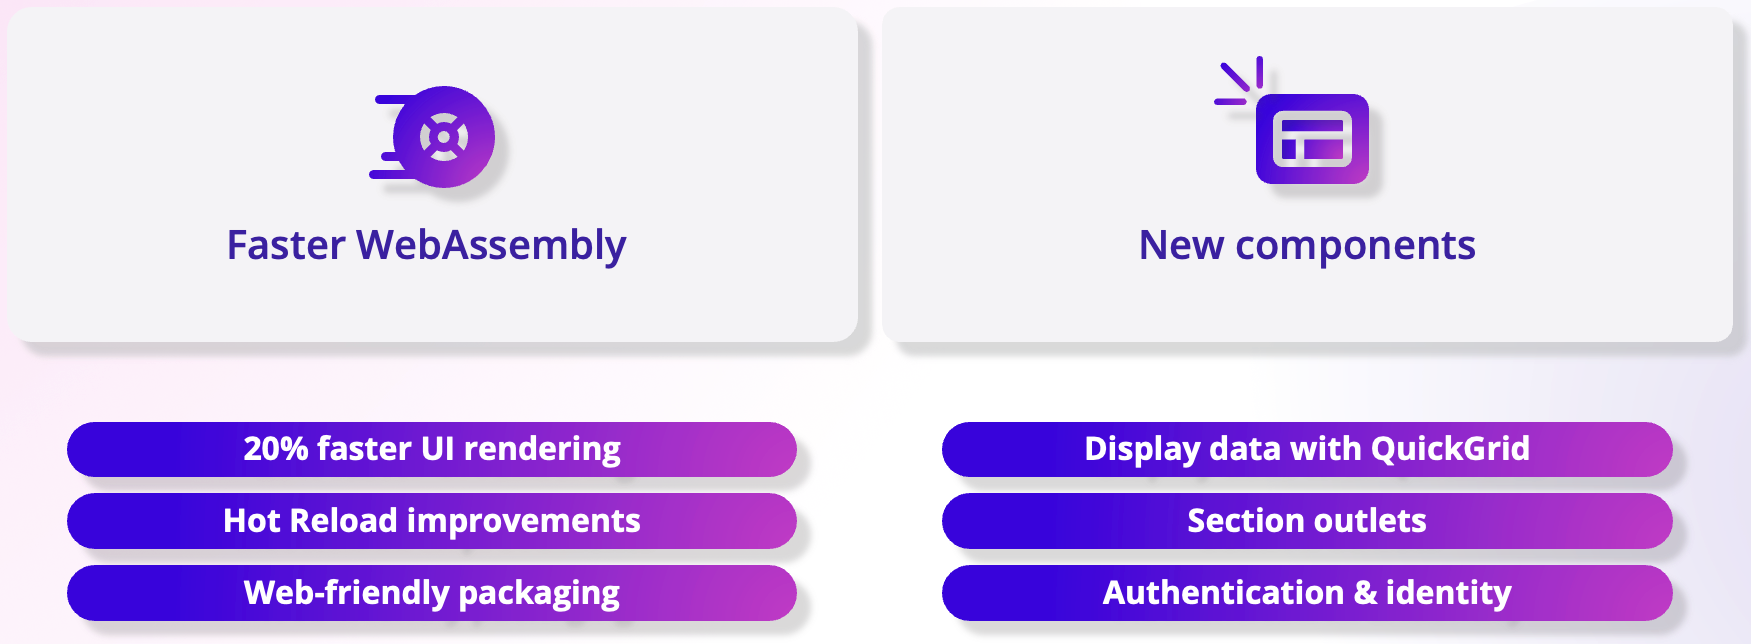
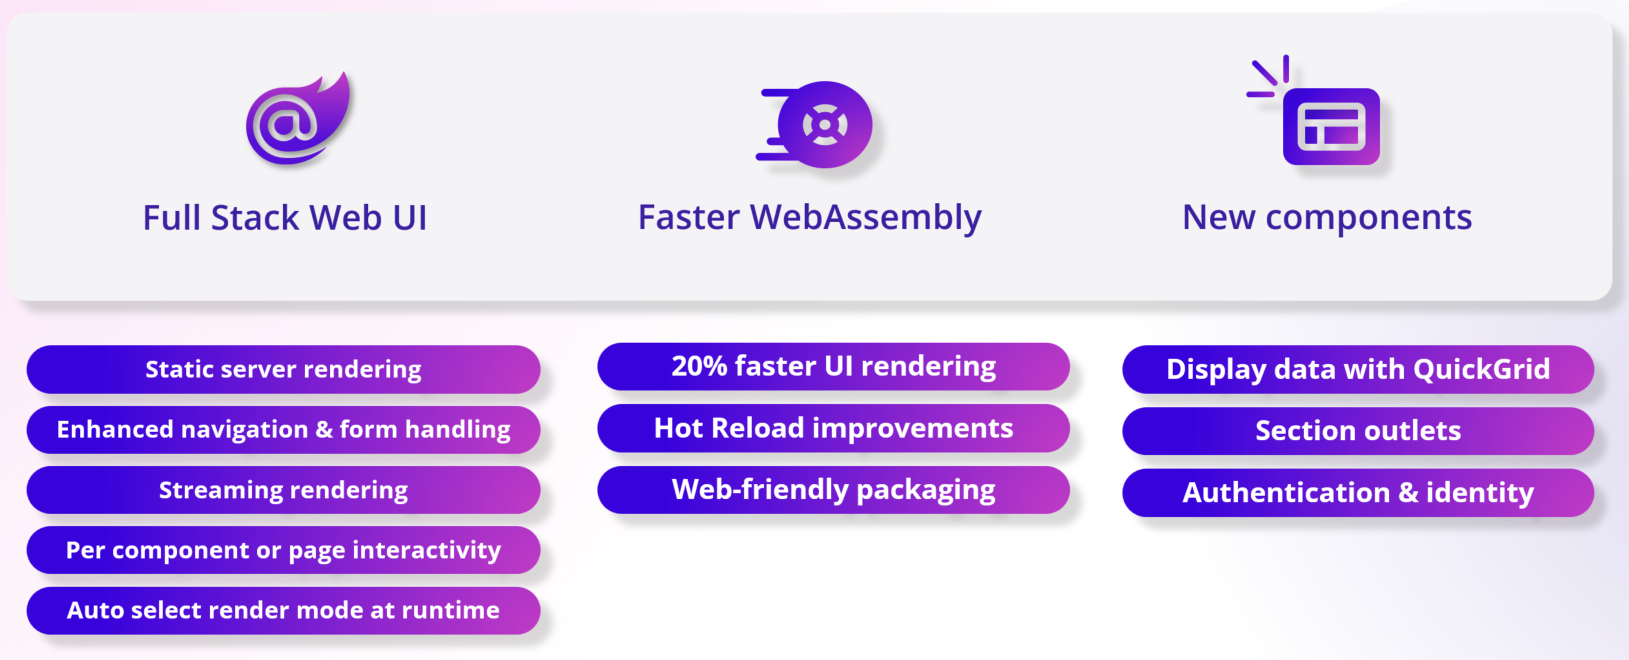
Update announcing-dotnet-8.md from GS feedback (#1384)
* Update announcing-dotnet-8.md

Incorporated Gaurav's feedback and edits.

* Update 2023/11-Nov/announcing-dotnet-8/announcing-dotnet-8.md

* new images from keynote deck

* New image w/o mouse pointer

diff --git a/2023/11-Nov/announcing-dotnet-8/announcing-dotnet-8.md b/2023/11-Nov/announcing-dotnet-8/announcing-dotnet-8.md
@@ -12,60 +12,37 @@ post_date: 2023-11-14 10:05:00
 
 [![.NET 8 is now available](Banner.png)](https://dotnet.microsoft.com/download/dotnet/8.0)
 
-Today we are happy to announce the availability of .NET 8, the latest version of one of the world’s leading programming languages and development platforms. .NET 8 delivers thousands of performance, stability, and security improvements, including platform and tooling enhancements that will help developers increase productivity and drive innovation and growth across their organizations. .NET is showcasing the latest capabilities in .NET 8 at [dotnetConf, which takes place online today, November 14, through November 16](https://www.dotnetconf.net/).
+Today we are happy to announce the [availability of .NET 8](https://aka.ms/get-dotnet-8), the latest [LTS](https://dotnet.microsoft.com/platform/support/policy) version of one of the world’s leading development platforms. .NET 8 delivers thousands of performance, stability, and security improvements, as well as platform and tooling enhancements that help increase developer productivity and speed of innovation. The .NET team, our partners, and the .NET community will be talking about what’s new in .NET 8 as well as what people are building with .NET today to meet their needs of tomorrow at [dotnetConf, a three day virtual event (November 14-16)](https://www.dotnetconf.net/). Come, join us!
 
-.NET 8 reshapes the way we build intelligent cloud-native applications and high-traffic services that scale on demand. Whether you're deploying to Linux or Windows using containers or a cloud app model of your choice, .NET 8 makes building apps easier. It includes new cloud-native components and libraries that are used today by the many services at Microsoft you know and love to help you with fundamental challenges including observability, resiliency, scalability, manageability, and much more.
+.NET 8 reshapes the way we build intelligent cloud-native applications and high-traffic services that scale on demand. Whether you’re deploying to Linux or Windows using containers or a cloud app model of your choice, .NET 8 makes building apps easier. It includes new built-in cloud-native components and libraries that are used today by the many services at Microsoft you know and love, to help you with fundamental challenges including observability, resiliency, scalability, manageability, and much more.
 
-Integrate large language models like OpenAI's GPT directly into your .NET app. Use a single powerful component model to handle all your web UI needs with Blazor. Deploy your mobile applications to the latest version of iOS and Android with .NET MAUI. Discover new language enhancements that make your code more concise and expressive with C# 12. And you can even build your .NET applications with Visual Studio Code using C# Dev Kit.
+[![.NET 8 - Cloud Native Features](Cloud-Native-dotnet-8.png)](https://aka.ms/aspireannouncement)
 
-Microsoft will offer [long term support for .NET 8 for at least three years](https://dotnet.microsoft.com/platform/support/policy).
+Integrate large language models like OpenAI’s GPT directly into your .NET app. Use a single powerful component model to handle all your web UI needs with Blazor. Deploy your mobile applications to the latest version of iOS and Android with .NET MAUI. Discover new language enhancements that make your code more concise and expressive with C# 12.  
 
-Let’s look at what’s new.
-
-## What's new in .NET 8
-
-The .NET 8 release includes improvements across all workloads with major enhancements to:
-
-- Cloud Native
-  - [.NET Aspire](#net-aspire-an-opinionated-stack-to-build-observable-production-ready-cloud-native-applications)
-  - [Containers](#net-8-container-enhancements-more-secure-compact-and-developer-friendly)
-
-- Optimized Execution
-  - [Performance](#unparalleled-performance-experience-the-fastest-net-to-date)
-  - [Native AOT](#native-aot-journey-towards-higher-density-sustainable-compute)
-
-- AI/ML Innovation
-  - [Infuse AI into your .NET Applications](#artificial-intelligence-build-your-next-copilot-with-net)
-
-- Framework Advancements
-  - [Blazor](#blazor-build-full-stack-web-applications-with-net)
-  - [.NET MAUI](#net-maui-elevated-performance-reliability-and-developer-experience)
-
-- Language & Tools
-  - [C# 12](#c-12-features-simplified-syntax-for-better-developer-productivity)
-  - [Visual Studio](#best-productivity-in-visual-studio-family-of-tools)
-
-## [.NET Aspire – An opinionated stack to build observable, production-ready cloud native applications](https://aka.ms/aspireannouncement)
-
-.NET Aspire is a stack for building resilient, observable, and configurable cloud-native applications with .NET. It includes a curated set of components enhanced for cloud-native by including telemetry, resilience, configuration, and health checks by default. Combined with a sophisticated but simple local developer experience, Aspire makes it easy to discover, acquire, and configure essential dependencies for cloud native applications on day 1 as well as day 100.
-
-[![.NET Aspire](Aspire.png)](https://aka.ms/aspireannouncement)
-
-## [.NET 8 Container Enhancements – More secure, compact, and developer-friendly](https://devblogs.microsoft.com/dotnet/securing-containers-with-rootless/) 
-
-Package your applications into containers more easily and more securely than ever with .NET. New non-root options in our base images seamlessly work together with the built-in SDK tooling, making your containers even more secure. Deploy your containerized apps faster due to smaller .NET base images - including new variants of our images that work with Trimming and Native AOT to deliver truly minimal application sizes. Opt in to even more security hardening with the new Chiseled Ubuntu image variants to reduce your attack surface even further. Use the enhanced SDK tooling to build multi-platform container images to pick the best architecture for your use case.
-
-[![Modern containers](Containers.png)](https://devblogs.microsoft.com/dotnet/securing-containers-with-rootless/)
+Let’s look at what’s new in .NET 8. 
 
 ## [Unparalleled Performance – Experience the fastest .NET to date](https://devblogs.microsoft.com/dotnet/performance-improvements-in-net-8/)
 
-A new code generator called Dynamic Profile-Guided Optimization (PGO) that optimizes your code based on real-world usage is enabled by default and can improve the performance of your apps up to 20%. The AVX-512 instruction set is now supported. This support enables you to perform parallel operations on 512-bit vectors of data, meaning you can process much more data in less time. The primitive types (numerical and beyond) now implement a new formattable and parsable interface, which enable them to directly format and parse as UTF-8 without any transcoding overhead.
+.NET 8 comes with thousands of performance improvements across the stack. A new code generator called Dynamic Profile-Guided Optimization (PGO) that optimizes your code based on real-world usage is enabled by default and can improve the performance of your apps up to 20%. The AVX-512 instruction set is now supported. This support enables you to perform parallel operations on 512-bit vectors of data, meaning you can process much more data in less time. The primitive types (numerical and beyond) now implement a new formattable and parsable interface, which enable them to directly format and parse as UTF-8 without any transcoding overhead.
 
 [![TechEmpower requests per second (RPS)](Performance.png)](https://devblogs.microsoft.com/dotnet/performance-improvements-in-net-8/)
 
+## [.NET Aspire – An opinionated stack to build observable, production-ready cloud native applications](https://aka.ms/aspireannouncement)
+
+.NET Aspire is a stack for building resilient, observable, and configurable cloud-native applications with .NET. It includes a curated set of components enhanced for cloud-native by including telemetry, resilience, configuration, and health checks by default. Combined with a sophisticated but simple local developer experience, Aspire makes it easy to discover, acquire, and configure essential dependencies for cloud native applications on day 1 as well as day 100. The first preview of .NET Aspire is available today.
+
+[![.NET Aspire](Aspire.png)](https://aka.ms/aspireannouncement)
+
+## [.NET 8 Container Enhancements – More secure, compact, and productive](https://devblogs.microsoft.com/dotnet/securing-containers-with-rootless/) 
+
+Package your applications into containers more easily and more securely than ever with .NET. New non-root options in our base images seamlessly work together with the built-in SDK tooling, making your containers even more secure. Deploy your containerized apps faster due to smaller .NET base images – including new variants of our images that work with Trimming and Native AOT to deliver truly minimal application sizes. Opt in to even more security hardening with the new Chiseled Ubuntu image variants to reduce your attack surface even further. Use the enhanced SDK tooling to build multi-platform container images to pick the best architecture for your use case.
+
+[![Modern containers](Containers.png)](https://devblogs.microsoft.com/dotnet/securing-containers-with-rootless/)
+
 ## [Native AoT – Journey towards higher density sustainable compute](https://learn.microsoft.com/dotnet/core/deploying/native-aot)
 
-Compile your .NET apps into native code that runs faster, uses less memory, and starts instantly. No need to wait for the JIT (just-in-time) compiler to compile the code at runtime. No need to deploy the JIT compiler and IL code. AOT apps deploy just the code that's needed for your app. Your app is now empowered to run in restricted environments where a JIT compiler is not allowed.
+Compile your .NET apps into native code that uses less memory and starts instantly. No need to wait for the JIT (just-in-time) compiler to compile the code at runtime. No need to deploy the JIT compiler and IL code. AOT apps deploy just the code that’s needed for your app. Your app is now empowered to run in restricted environments where a JIT compiler is not allowed.
 
 ### Before AOT
 [![Before AOT](BeforeAOT.png)](https://learn.microsoft.com/dotnet/core/deploying/native-aot)
@@ -75,23 +52,19 @@ Compile your .NET apps into native code that runs faster, uses less memory, and 
 
 ## [Artificial Intelligence – Infuse AI into your .NET applications](https://aka.ms/dotnet-genai)
 
-OpenAI's large language models have transformed the field of AI and provided developers with the ability to create unique AI-powered experiences in their applications. In .NET 8, we made significant investments in several areas, such as `System.Numerics`, samples, and tools to facilitate our developers in utilizing these models and seamlessly integrating them into their applications.
+Generative AI and large language models are transforming the field of AI, providing developers the ability to create unique AI-powered experiences in their applications. .NET 8 makes it simple for you to leverage AI via first class out of the box AI features in the .NET SDK and seamless integration with several tools.  
 
-In .NET 8, we have made several enhancements to the `System.Numerics` library to improve its compatibility with Generative AI workloads. One of our significant investments has been integrating Tensor Primitives in `System.Numerics`. These primitives enable hardware-accelerated numerical computations on multi-dimensional arrays like vectors, which is particularly helpful in enhancing search and retrieval applications that utilize Generative AI.
+.NET 8 bring several enhancements to the `System.Numerics` library to improve its compatibility with Generative AI workloads, such as integrating Tensor Primitives.
 
-With the rise of AI-enabled apps, a new set of tools and SDKs has emerged. To keep up with this growing set of tools, the .NET team has collaborated with numerous internal and external partners to provide top-notch AI tools and SDKs to developers. By working with Azure OpenAI, Azure Cognitive Search, [Milvus](https://milvus.io/docs/v2.2.x/install-csharp.md), Qdrant, and Microsoft Teams, .NET developers now have easy access to various AI models, services, and platforms through their respective SDKs.  Additionally, the open-source Semantic Kernel SDK simplifies the integration of these AI components into new and existing applications, encouraging creative combinations for innovative user experiences.
+With the rise of AI-enabled apps, new tools and SDKs emerged. We collaborated with numerous internal and external partners such as Azure OpenAI, Azure Cognitive Search, [Milvus](https://milvus.io/docs/v2.2.x/install-csharp.md), [Qdrant](https://github.com/qdrant/qdrant-dotnet), and Microsoft Teams, to ensure .NET developers have easy access to various AI models, services, and platforms through their respective SDKs.  Additionally, the open-source [Semantic Kernel](https://learn.microsoft.com/semantic-kernel/overview/) SDK simplifies the integration of these AI components into new and existing applications, to help you deliver innovative user experiences.
 
-Having access to samples and reference templates is crucial for a smooth developer experience during onboarding. We have provided a range of extensive code samples that showcase patterns and practices, which makes it easy for developers to comprehend and implement these applications. This empowers them to build their own intelligent solutions effortlessly.
+Various samples and reference templates, showcasing patterns and practices, are now available to make it easy for developers to get started – [Customer Chatbot](https://github.com/dotnet-architecture/eShop), [Retrieval Augmented Generation](https://github.com/Azure-Samples/azure-search-openai-demo-csharp), [Developing Apps using Azure AI services](https://devblogs.microsoft.com/dotnet/demystifying-retrieval-augmented-generation-with-dotnet/) 
 
-- Customer Chatbot: [Intergrate AI into your existing applications with eShop](https://github.com/dotnet-architecture/eShop).
-- Retrieval Augmented Generation: [Chat with your own enterprise data](https://github.com/Azure-Samples/azure-search-openai-demo-csharp).
-- [Understanding RAG](https://devblogs.microsoft.com/dotnet/demystifying-retrieval-augmented-generation-with-dotnet/) 
-
-![AI-chatbot](https://github.com/Azure-Samples/azure-search-openai-demo-csharp/assets/2546640/b79090b8-6a8b-45f4-b42b-e21e22b1661a)
+[![Infuse AI dotnet apps](InfuseAIdotnetapps.png)](https://github.com/Azure-Samples/azure-search-openai-demo-csharp/assets/2546640/b79090b8-6a8b-45f4-b42b-e21e22b1661a)
 
 ## [Blazor – Build full stack web applications with .NET](https://dotnet.microsoft.com/apps/aspnet/web-apps/blazor)
 
-Blazor in .NET 8 can use both the server and client together to handle all your web UI needs. It's full stack web UI! Blazor now has expanded support for server-side rendering with components, including static server rendering, enhanced navigation & form handling, and streaming rendering, so you can optimize page load time and elevate the user experience. You can then enable rich interactivity for components wherever needed by specifying an interactive render mode based on Blazor Server or Blazor WebAssembly. You can even use both in the same app and automatically shift users from the server to the client at runtime to improve app load time and scalability. Your .NET code runs significantly faster on WebAssembly thanks to the new "Jiterpreter" based runtime, and new built in components for displaying data, defining section outlets, and handling authentication help you stay productive.
+Blazor in .NET 8 can use both the server and client together to handle all your web UI needs. It’s full stack web UI! With several new enhancements focused towards optimizing page load time, scalability, and elevating the user experience, developers can now use Blazor Server and Blazor WebAssembly in the same app, automatically shifting users from the server to the client at runtime. Your .NET code runs significantly faster on WebAssembly thanks to the new “Jiterpreter” based runtime and new built in components. As a part enhancing the overall [authentication, authorization, and identity management in .NET 8](https://devblogs.microsoft.com/dotnet/whats-new-with-identity-in-dotnet-8/), Blazor now supports generating a full Blazor-based Identity UI.
 
 ![Full stack Blazor](Blazor.png)
 
@@ -126,23 +99,9 @@ int[][] twoDFromVariables = [row0, row1, row2];
 
 See [What's new in C# 12](https://learn.microsoft.com/dotnet/csharp/whats-new/csharp-12) for more feature examples.
 
-## [Best productivity in Visual Studio family of tools](https://aka.ms/VS/v178GA)
+## [NET 8 support across Visual Studio family of tools](https://aka.ms/VS/v178GA)
 
-Alongside this great .NET 8 release, we have a set of great tools that help you be the most productive in your development workflow and take advantage of .NET 8 today. Released alongside .NET 8 is the [Visual Studio 2022 17.8 release for general availability](https://aka.ms/vs/v178GA). This is the best tool for .NET developers to take advantage of all the features in the runtime and C# 12 language enhancements. VS 17.8 ships with the enhanced capabilities that we've previously enabled via .NET 8 such as [improved ASP.NET route tooling like highlighting and completions](https://devblogs.microsoft.com/dotnet/aspnet-core-route-tooling-dotnet-8/):
-
-![Animation of route completions and highlighting](rt-autocomplete.gif)
-
-and updated [enhancements to debugging views](https://devblogs.microsoft.com/dotnet/debugging-enhancements-in-dotnet-8/) when using .NET 8:
-
-![Visual Studio debugging screenshot of HttpContext in .NET 8](https://devblogs.microsoft.com/dotnet/wp-content/uploads/sites/10/2023/09/httpcontext-debugging-after.png)
-
-Visual Studio helps your inner loop also with the updated auth improvements in .NET 8 and combined with debugger delighters like JWT visualizer just make writing web apps a joy in Visual Studio 2022.
-
-[Read the Visual Studio 2022 17.8 release blog](https://aka.ms/vs/v178GA) to learn more about all the other improvements to your development workflow and download the update today.
-
-We also continue to make improvements to the [C# experience in VS Code](https://marketplace.visualstudio.com/items?itemName=ms-dotnettools.csdevkit), which is a great way to get started with .NET 8 if you are learning and/or want to quickly kick the tires of the runtime a bit. VS Code and C# Dev Kit give you a great set of experiences for writing .NET 8 apps on Linux, macOS, or in a GitHub Codespace. We recently released a new [GitHub Codespace template for .NET](https://github.com/codespaces) that is one of the fastest ways to get started with .NET 8 as the image comes with the SDK and a set of extensions configured to quickly get started. Along with this comes a new series of getting started learning C# and .NET content that you can follow here in the [new Getting Started video series](https://dotnet.microsoft.com/learn/videos) and will help you along the path to [become C# Certified as well with our partnership with freeCodeCamp](https://www.freecodecamp.org/learn/foundational-c-sharp-with-microsoft/)!
-
-With .NET 8 you have a great set of tools with the latest SDK and Visual Studio family of products to make you the most productive in your development!
+We have a set of great tools that help you be the most productive in your development workflow and take advantage of .NET 8 today. Released alongside .NET 8, the [Visual Studio 2022 17.8 release](https://aka.ms/vs/v178GA) brings support for .NET 8, C# 12 language enhancements, and various new productivity features. [VS Code and C# Dev Kit](https://marketplace.visualstudio.com/items?itemName=ms-dotnettools.csdevkit) is a great way to get started with .NET 8 if you are learning and/or want to quickly kick the tires of the runtime and is available on Linux, macOS, or in a GitHub Codespace. The new [GitHub Codespaces template for .NET](https://github.com/codespaces), which comes is the SDK and a set of configured extensions, is one of the fastest ways to get started with .NET 8. 
 
 ### Additional features in .NET 8:
 
@@ -172,8 +131,6 @@ For the best development experience with .NET 8, we recommend that you use the l
 - **Bonus: eShop Sample for .NET 8.** Follow all the best coding and architecture practices with our [new eShop sample, now updated for .NET 8](https://github.com/dotnet/eshop)!
 
 ### Celebrate .NET 8
-
-//YouTube Placeholder - https://www.youtube.com/watch?v=VRBF3xvY80w
 
 - **.NET Conf 2023**. [Join us November 14-16, 2023 to celebrate the .NET 8 release!](https://www.dotnetconf.net/)
 - **What's next in .NET?**. [Get involved and learn the latest news on .NET 8 and the next version of .NET.](https://dotnet.microsoft.com/next)
